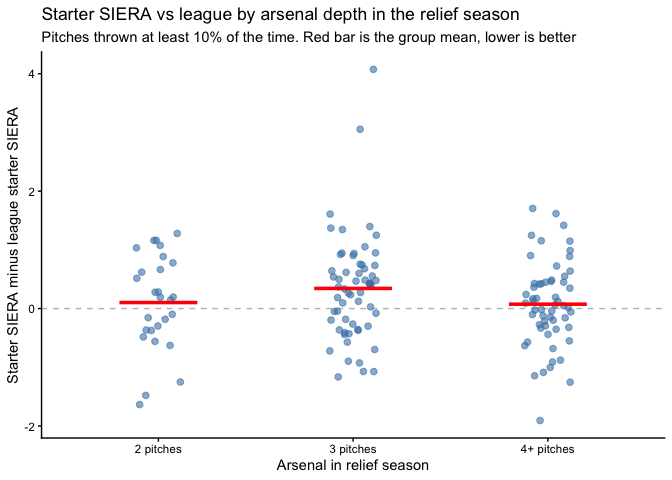
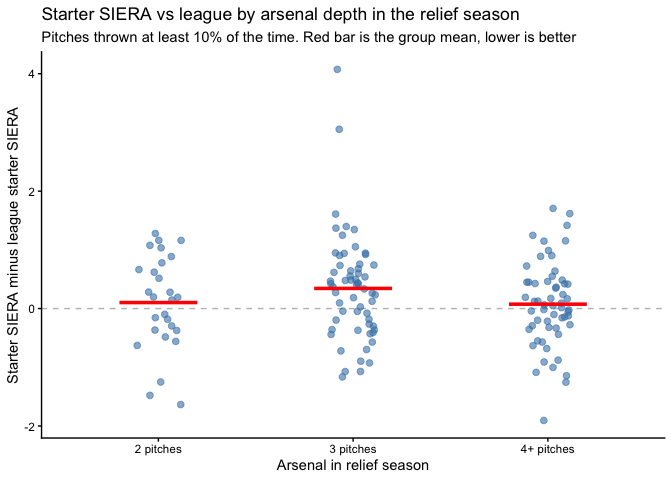
Remove unused columns and code from the data notebook

diff --git a/01_data_and_sample/01_data_and_sample.md b/01_data_and_sample/01_data_and_sample.md
@@ -153,8 +153,7 @@ minors <- read_csv("../data/fg_minors.csv", show_col_types = FALSE) |>
 league_sp <- role_seasons |>
   filter(role == "sta") |>
   group_by(Season) |>
-  summarize(lg_sp_siera = weighted.mean(SIERA, TBF, na.rm = TRUE),
-            lg_sp_kbb = weighted.mean(`K-BB%`, TBF, na.rm = TRUE))
+  summarize(lg_sp_siera = weighted.mean(SIERA, TBF, na.rm = TRUE))
 
 league_rp <- role_seasons |>
   filter(role == "rel") |>
@@ -171,7 +170,6 @@ long_starts <- game_logs |>
   summarize(LongStarts = n(), .groups = "drop")
 starter_seasons <- role_seasons |>
   filter(role == "sta") |>
-  left_join(season_totals, by = c("playerid", "Season")) |>
   inner_join(long_starts, by = c("xMLBAMID", "Season")) |>
   filter(LongStarts >= 2)
 
@@ -248,7 +246,7 @@ starter_seasons <- starter_seasons |>
 
 relief_side <- relief_seasons |>
   left_join(league_rp, by = "Season") |>
-  transmute(playerid, rp_season = Season, rp_age = Age, rp_G = G, rp_IP = IP, rp_TBF = TBF,
+  transmute(playerid, rp_season = Season, rp_age = Age, rp_IP = IP, rp_TBF = TBF,
             rp_SIERA = SIERA, rp_SIERA_vs_lg = SIERA - lg_rp_siera,
             rp_K = `K%`, rp_BB = `BB%`, rp_KBB = `K-BB%`, rp_GB = `GB%`,
             rp_Zone = `Zone%`, rp_FStrike = `F-Strike%`, rp_SwStr = `SwStr%`, rp_CStr = `CStr%`,
@@ -259,7 +257,7 @@ relief_side <- relief_seasons |>
             rp_TopTwoUsage = TopTwoUsage, rp_ThirdPitchUsage = ThirdPitchUsage,
             rp_OffspeedUsage = OffspeedUsage, rp_FastballUsage = FastballUsage,
             rp_PitchesPerG = PitchesPerG, rp_TBFPerG = TBFPerG,
-            rp_StuffPlus = sp_stuff, rp_LocationPlus = sp_location, rp_PitchingPlus = sp_pitching,
+            rp_StuffPlus = sp_stuff, rp_LocationPlus = sp_location,
             rp_botStf = pb_stuff, rp_botCmd = pb_command,
             rp_FB_Stuff = FB_Stuff, rp_BestSecondary_Stuff = BestSecondary_Stuff,
             rp_SecondSecondary_Stuff = SecondSecondary_Stuff, rp_Offspeed_Stuff = Offspeed_Stuff,
@@ -267,12 +265,9 @@ relief_side <- relief_seasons |>
 
 starter_side <- starter_seasons |>
   left_join(league_sp, by = "Season") |>
-  transmute(playerid, xMLBAMID, PlayerName, Throws, sp_season = Season, sp_team = TeamNameAbb,
-            sp_GS = GS, sp_LongStarts = LongStarts, sp_start_share = GS_total / G_total, sp_IP = IP, sp_TBF = TBF,
-            sp_WAR = WAR,
-            sp_SIERA = SIERA, sp_SIERA_vs_lg = SIERA - lg_sp_siera,
-            sp_K = `K%`, sp_BB = `BB%`, sp_KBB = `K-BB%`, sp_KBB_vs_lg = `K-BB%` - lg_sp_kbb,
-            sp_FBVelo = FBVelo, sp_StuffPlus = sp_stuff, sp_LocationPlus = sp_location)
+  transmute(playerid, xMLBAMID, PlayerName, Throws, sp_season = Season,
+            sp_GS = GS, sp_LongStarts = LongStarts, sp_IP = IP, sp_TBF = TBF, sp_WAR = WAR,
+            sp_SIERA = SIERA, sp_SIERA_vs_lg = SIERA - lg_sp_siera, sp_KBB = `K-BB%`, sp_FBVelo = FBVelo)
 ```
 
 ``` r
@@ -325,7 +320,7 @@ for (i in 1:nrow(pairs)) {
 pairs$MiLB_GS_share <- ifelse(pairs$MiLB_G > 0, pairs$MiLB_GS / pairs$MiLB_G, NA)
 
 conversions <- pairs |>
-  filter(GS_between <= 3, sp_season >= 2015) |>
+  filter(GS_between <= 3) |>
   mutate(KBB_change = sp_KBB - rp_KBB,
          SIERA_change = sp_SIERA - rp_SIERA,
          Velo_change = sp_FBVelo - rp_FBVelo,
@@ -375,7 +370,7 @@ appearances <- game_logs |>
   mutate(FirstLongStart = ifelse(any(GS == 1 & Pitches >= 70), min(date[GS == 1 & Pitches >= 70]), NA),
          LongStarts = sum(GS == 1 & Pitches >= 70)) |>
   ungroup() |>
-  filter(Season >= 2015, LongStarts >= 2)
+  filter(LongStarts >= 2)
 before_move <- appearances |>
   filter(date < FirstLongStart) |>
   group_by(xMLBAMID, Season) |>
@@ -385,8 +380,7 @@ before_move <- appearances |>
 after_move <- appearances |>
   filter(date >= FirstLongStart, GS == 1) |>
   group_by(xMLBAMID, Season) |>
-  summarize(after_GS = n(), LongStarts = first(LongStarts), after_TBF = sum(TBF),
-            after_KBB = sum(SO - BB) / after_TBF, .groups = "drop")
+  summarize(after_GS = n(), after_KBB = sum(SO - BB) / sum(TBF), .groups = "drop")
 last_year <- season_totals |>
   transmute(playerid, Season = Season + 1, GS_last_year = GS_total)
 midseason_attempts <- before_move |>
@@ -394,18 +388,13 @@ midseason_attempts <- before_move |>
   inner_join(role_seasons |> distinct(xMLBAMID, playerid, Season, PlayerName), by = c("xMLBAMID", "Season")) |>
   left_join(last_year, by = c("playerid", "Season")) |>
   mutate(GS_last_year = coalesce(GS_last_year, 0)) |>
-  anti_join(conversions, by = c("xMLBAMID", "Season" = "sp_season"))
+  anti_join(conversions, by = c("xMLBAMID", "Season" = "sp_season")) |>
+  select(xMLBAMID, playerid, PlayerName, Season, before_KBB, after_GS, after_KBB, GS_last_year)
 write_csv(midseason_attempts, "../data/midseason_attempts.csv")
 cat("Mid-season attempts not already in the sample:", nrow(midseason_attempts), "\n")
 ```
 
     ## Mid-season attempts not already in the sample: 133
-
-``` r
-cat("Qualifying relief seasons, 2014 to 2025:", sum(relief_side$rp_season <= 2025), "\n")
-```
-
-    ## Qualifying relief seasons, 2014 to 2025: 3024
 
 ## Pull relief season pitches
 
@@ -413,10 +402,9 @@ Every Statcast pitch from the relief season of each pitcher in the
 sample (about 8 seconds per pitcher season).
 
 ``` r
-keep_columns <- c("pitcher", "player_name", "game_year", "game_date", "game_pk", "pitch_type", "release_speed",
-                  "stand", "p_throws", "description", "events", "zone", "balls", "strikes", "inning",
-                  "at_bat_number", "pitch_number", "n_thruorder_pitcher", "woba_value", "woba_denom",
-                  "estimated_woba_using_speedangle", "delta_run_exp", "pfx_x", "pfx_z")
+keep_columns <- c("pitcher", "game_year", "game_pk", "pitch_type", "release_speed", "stand", "p_throws",
+                  "description", "events", "inning", "at_bat_number", "pitch_number", "n_thruorder_pitcher",
+                  "woba_value", "woba_denom", "estimated_woba_using_speedangle")
 
 # Statcast starts in 2015
 pitcher_seasons <- read_csv("../data/conversions.csv", show_col_types = FALSE) |>
@@ -446,10 +434,9 @@ cat("Saved", nrow(all_pitches), "pitches\n")
 The same pull for the starter season.
 
 ``` r
-keep_columns <- c("pitcher", "player_name", "game_year", "game_date", "game_pk", "pitch_type", "release_speed",
-                  "stand", "p_throws", "description", "events", "zone", "balls", "strikes", "inning",
-                  "at_bat_number", "pitch_number", "n_thruorder_pitcher", "woba_value", "woba_denom",
-                  "estimated_woba_using_speedangle", "delta_run_exp", "pfx_x", "pfx_z")
+keep_columns <- c("pitcher", "game_year", "game_pk", "pitch_type", "release_speed", "stand", "p_throws",
+                  "description", "events", "inning", "at_bat_number", "pitch_number", "n_thruorder_pitcher",
+                  "woba_value", "woba_denom", "estimated_woba_using_speedangle")
 
 pitcher_seasons <- read_csv("../data/conversions.csv", show_col_types = FALSE) |>
   distinct(xMLBAMID, sp_season, PlayerName)
@@ -478,8 +465,7 @@ WPA and average leverage from Baseball-Reference, plus the Chadwick
 register to join player IDs.
 
 ``` r
-stat_columns <- c("player", "age", "team_ID", "IP", "apWins", "wpa_def", "leverage_index_avg", "wpa_li_def",
-                  "re24_def", "rew_def")
+stat_columns <- c("age", "team_ID", "IP", "wpa_def", "leverage_index_avg")
 
 win_probability <- NULL
 for (season in 2014:2026) {
@@ -508,7 +494,7 @@ for (letter in c(0:9, "a", "b", "c", "d", "e", "f")) {
   url <- paste0("https://raw.githubusercontent.com/chadwickbureau/register/master/data/people-", letter, ".csv")
   people <- read_csv(url, col_types = cols(.default = "c")) |>
     filter(!is.na(key_mlbam), !is.na(key_bbref)) |>
-    select(xMLBAMID = key_mlbam, bref_id = key_bbref, fg_id = key_fangraphs)
+    select(xMLBAMID = key_mlbam, bref_id = key_bbref)
   id_map <- bind_rows(id_map, people)
 }
 write_csv(id_map, "../data/id_map.csv", na = "")
@@ -520,8 +506,7 @@ cat("ID map:", nrow(id_map), "people\n")
 WAA and its role and leverage adjustments from Baseball-Reference.
 
 ``` r
-stat_columns <- c("p_ip", "p_g", "p_gs", "p_ra9", "p_ra9_role", "p_ra9_avg_pitcher", "p_raa", "p_waa",
-                  "p_leverage_index_avg_rp", "p_waa_adj", "p_war", "p_rar")
+stat_columns <- c("p_ip", "p_g", "p_gs", "p_ra9_role", "p_raa", "p_waa", "p_waa_adj", "p_war")
 
 value_pitching <- NULL
 for (season in 2014:2026) {
@@ -577,17 +562,15 @@ pitches <- pitches |>
 # Results against same-handed and opposite-handed hitters
 platoon <- pitches |>
   group_by(pitcher, game_year) |>
-  summarize(OppShare = mean(OppHand),
-            Opp_PA = sum(PA & OppHand),
-            Opp_KBB = (sum(K & OppHand) - sum(BB & OppHand)) / sum(PA & OppHand),
+  summarize(Opp_KBB = (sum(K & OppHand) - sum(BB & OppHand)) / sum(PA & OppHand),
             Same_KBB = (sum(K & !OppHand) - sum(BB & !OppHand)) / sum(PA & !OppHand),
             Opp_Whiff = sum(Whiff & OppHand) / sum(Swing & OppHand),
-            Same_Whiff = sum(Whiff & !OppHand) / sum(Swing & !OppHand),
             Opp_wOBA = sum(woba_value[OppHand], na.rm = TRUE) / sum(woba_denom[OppHand], na.rm = TRUE),
             Same_wOBA = sum(woba_value[!OppHand], na.rm = TRUE) / sum(woba_denom[!OppHand], na.rm = TRUE),
             .groups = "drop") |>
   mutate(Platoon_KBB_gap = Same_KBB - Opp_KBB,
-         Platoon_wOBA_gap = Opp_wOBA - Same_wOBA)
+         Platoon_wOBA_gap = Opp_wOBA - Same_wOBA) |>
+  select(-Same_wOBA)
 ```
 
 ``` r
@@ -620,7 +603,6 @@ outings <- pitches |>
   summarize(Outings = n(),
             Share25Plus = mean(outing_pitches >= 25),
             Share40Plus = mean(outing_pitches >= 40),
-            MaxOutingPitches = max(outing_pitches),
             .groups = "drop")
 ```
 
@@ -644,7 +626,8 @@ velo_fade <- pitches |>
             Velo_mean = mean(release_speed),
             .groups = "drop") |>
   mutate(Velo_fade = ifelse(FB_after25 >= 20, Velo_after25 - Velo_first15, NA),
-         Velo_max_gap = Velo_p95 - Velo_mean)
+         Velo_max_gap = Velo_p95 - Velo_mean) |>
+  select(pitcher, game_year, Velo_first15, Velo_fade, Velo_max_gap)
 ```
 
     ## Warning in inner_join(pitches, primary_fb, by = c("pitcher", "game_year")): Detected an unexpected many-to-many relationship between `x` and `y`.
